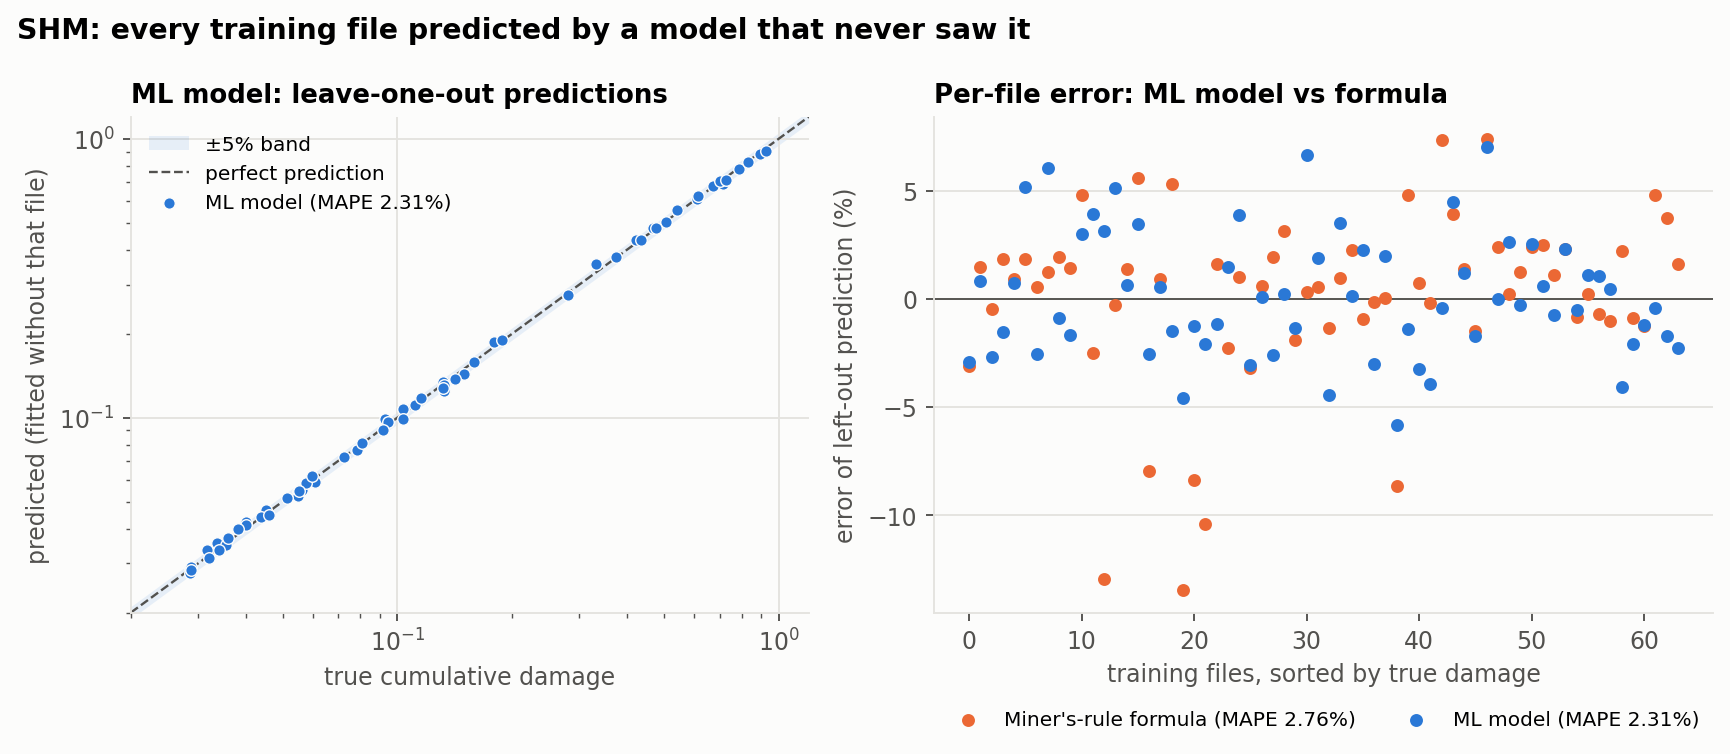
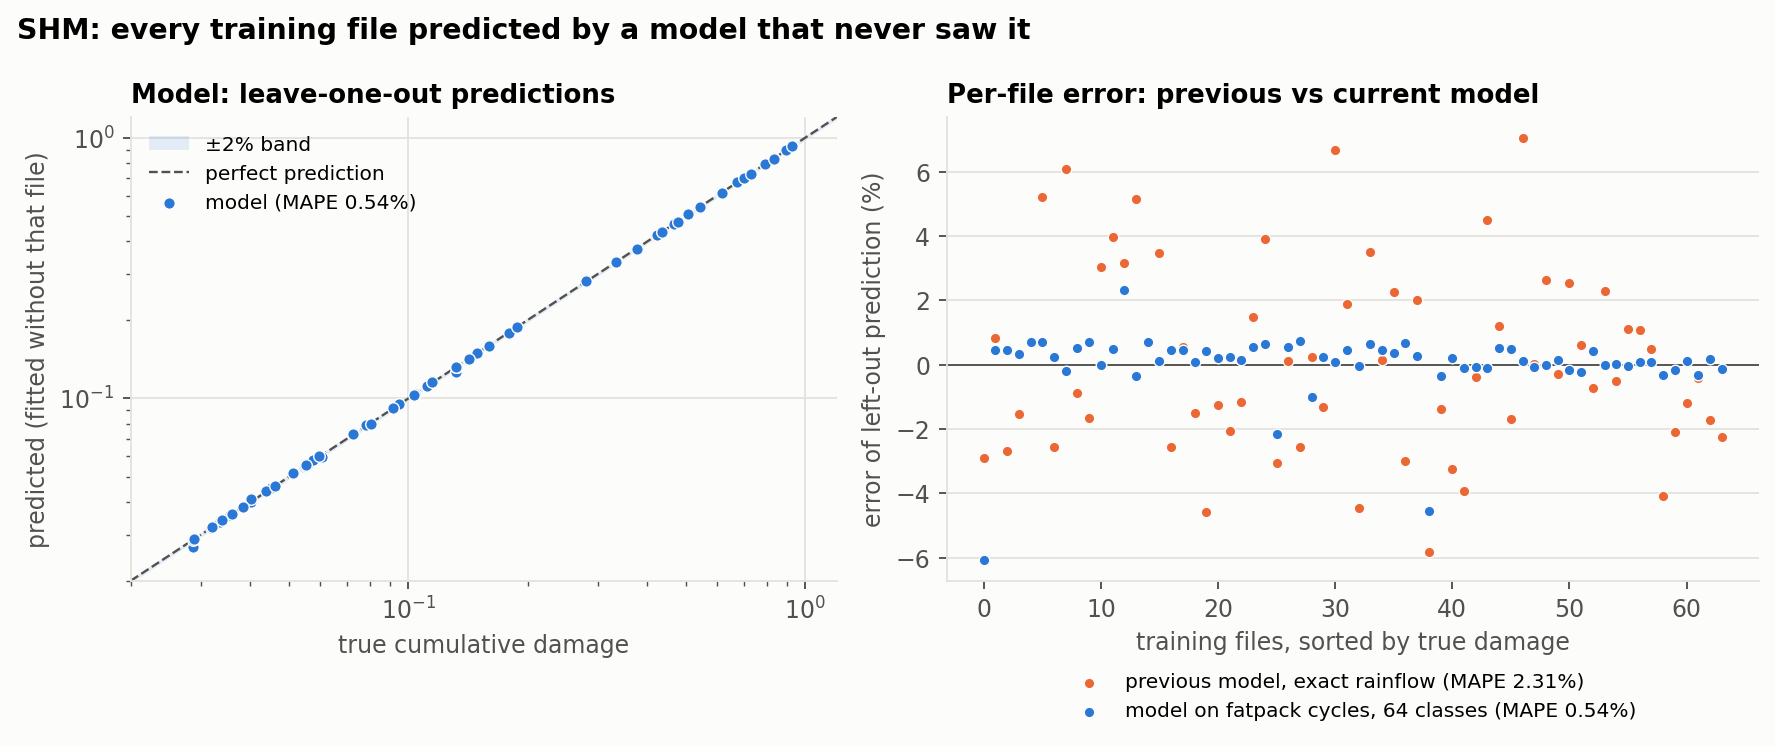
SHM: count rainflow cycles the way the labels were made (LOO MAPE 2.31% -> 0.54%)
The labels match fatpack's rainflow counting with its default 64 stress levels
and the residue closed as full cycles (fitted Miner formula: 0.79% vs 2.6% on
exact rainflow; 63 or 65 levels give 1.08%). The ridge model now uses 9 damage
sums over those cycles (signal statistics dropped): leave-one-out 0.54%,
repeated 5-fold 0.56% +- 0.03% vs 2.45% before, better on 20/20 seeds.

- ps3/shm.py, fit_shm.py: fatpack cycles, 9 features; model, params and
  training reference refitted.
- requirements.txt: fatpack replaces rainflow.
- submission/shm_predictions.csv regenerated (3% mean change, 11% max).
- README and SHM chart updated.

Claude-Session: https://claude.ai/code/session_01EtwQgoEAxMoT2HjhRF4N32

diff --git a/ps3/shm.py b/ps3/shm.py
@@ -1,16 +1,19 @@
 """SHM: cumulative fatigue damage from a dynamic stress time series.
 
-Model: ridge regression on log damage, trained on the 64 labelled files.
-Features (30), computed per file:
-  - 9 rainflow damage sums  log( sum_i n_i * amp_i^m )  for m = 3.0, 3.5 ... 7.0,
-    so the model learns the S-N weighting from the data instead of it being fixed;
-  - 21 signal statistics (mean, spread, shape, range, percentiles, step size,
-    turning-point rate, spectral band shares).
+The Info Kit says the reference labels were computed with rainflow counting and
+Miner's rule. How the rainflow counting is done matters: the labels are matched
+best by fatpack's rainflow counting with its default 64 load classes, the
+residue closed by repeating it (full cycles). The 2-parameter Miner formula
+D = sum(amp^m) / C fitted on those cycles misses the labels by 0.79% on average,
+against 2.6% on exact rainflow cycles with half-counted residue; 63 or 65 load
+classes give 1.08%, so 64 is a sharp optimum.
 
-Leave-one-out MAPE across all 64 files: 2.31% (score 0.977), against 2.76% for
-the fitted Miner's-rule formula D = sum(n * amp^m) / C (m = 5.03, C = 7.98e8)
-and 10-20% for machine learning on the signal statistics alone. The formula is
-still computed for every file and shown in `detail` as a cross-check.
+Model: ridge regression on log damage, trained on the 64 labelled files, on 9
+features log( sum_i amp_i^m ) for m = 3.0, 3.5 ... 7.0 over those cycles.
+Repeated 5-fold CV MAPE 0.56% (20 seeds; leave-one-out 0.54%, score about
+0.995), against 2.45% for the previous model (rainflow-package cycles plus 21
+signal statistics). The fitted Miner formula is still computed for every file
+and shown in `detail` as a cross-check.
 """
 import json
 import os
@@ -48,41 +51,30 @@ def load_series(path: str) -> np.ndarray:
     return s[np.isfinite(s)]
 
 
+LOAD_CLASSES = 64          # fatpack's default; reproduces the labels best (see above)
+
+
 def cycles(x: np.ndarray) -> np.ndarray:
-    """Rainflow cycle extraction -> array of (amplitude, count)."""
-    import rainflow
-    return np.array([[rng / 2.0, cnt] for rng, mean, cnt, i, j
-                     in rainflow.extract_cycles(x)])
+    """Rainflow cycles -> array of (amplitude, count), one row per distinct
+    amplitude. fatpack sorts the signal into 64 load classes and closes the
+    residue by repeating it, so every cycle is a full cycle."""
+    import fatpack
+    rng = fatpack.find_rainflow_ranges(x, k=LOAD_CLASSES)
+    amp, cnt = np.unique(rng[rng > 0] / 2.0, return_counts=True)
+    return np.stack([amp, cnt.astype(float)], 1)
 
 
 def damage_sum(c: np.ndarray, m: float) -> float:
     return float(np.sum(c[:, 0] ** m * c[:, 1]))
 
 
-def features(x: np.ndarray, c: np.ndarray) -> pd.Series:
-    """The 30 model inputs for one stress series and its rainflow cycles."""
-    from scipy import signal, stats
-    out = {f"rf_logdmg_m{m:.1f}": np.log(damage_sum(c, m)) for m in DAMAGE_EXPONENTS}
-    d = np.diff(x)
-    z = x - x.mean()
-    q = np.percentile(x, [1, 5, 25, 50, 75, 95, 99])
-    fr, psd = signal.welch(z, nperseg=4096)
-    edges = np.quantile(np.arange(len(fr)), [0, .02, .05, .1, .2, .4, 1]).astype(int)
-    out.update({
-        "st_log_std": np.log(x.std()), "st_mean": x.mean(), "st_skew": stats.skew(x),
-        "st_kurt": stats.kurtosis(x), "st_log_range": np.log(x.max() - x.min()),
-        **{f"st_p{p:02d}": v for p, v in zip((1, 5, 25, 50, 75, 95, 99), q)},
-        "st_log_absdiff": np.log(np.abs(d).mean()), "st_log_diffstd": np.log(d.std()),
-        "st_turning_rate": np.sum(np.diff(np.sign(d)) != 0) / len(x),
-        **{f"st_band{i}": np.log(psd[a:b].sum() / psd.sum() + 1e-12)
-           for i, (a, b) in enumerate(zip(edges[:-1], edges[1:]))},
-    })
-    return pd.Series(out)
+def features(c: np.ndarray) -> pd.Series:
+    """The 9 model inputs: log damage sums over the rainflow cycles."""
+    return pd.Series({f"rf_logdmg_m{m:.1f}": np.log(damage_sum(c, m)) for m in DAMAGE_EXPONENTS})
 
 
 def featurize(path: str) -> pd.Series:
-    x = load_series(path)
-    return features(x, cycles(x))
+    return features(cycles(load_series(path)))
 
 
 def make_model():
@@ -99,7 +91,7 @@ def predict(path: str) -> dict:
     x = load_series(path)
     c = cycles(x)
     M = _model()
-    X = features(x, c).reindex(M["features"]).to_frame().T
+    X = features(c).reindex(M["features"]).to_frame().T
     D = float(np.exp(M["model"].predict(X)[0]))
     D_formula = damage_sum(c, p["m"]) / p["C"]
 
@@ -120,7 +112,7 @@ def predict(path: str) -> dict:
     return {
         "prediction": round(D, 6),
         "detail": {
-            "model": "ridge regression on rainflow damage sums + signal statistics",
+            "model": "ridge regression on rainflow damage sums (fatpack, 64 load classes)",
             "miners_rule_estimate": round(float(D_formula), 6),
             "model_vs_formula_pct": round(100 * (D / D_formula - 1), 2),
             "samples": int(len(x)),

diff --git a/fit_shm.py b/fit_shm.py
@@ -1,10 +1,11 @@
 """Fits the SHM models on the training files:
   1. Miner's-rule constants m and C -> ps3/params_shm.json (used as a cross-check
      and for the explanation shown in the app);
-  2. the prediction model, ridge regression on rainflow damage sums + signal
-     statistics -> ps3/model_shm.joblib, together with the training reference
-     values used for the evidence in `detail`.
-Prints leave-one-out MAPE for both (64 files: 2.76% formula, 2.31% model)."""
+  2. the prediction model, ridge regression on rainflow damage sums
+     -> ps3/model_shm.joblib, together with the training reference values used
+     for the evidence in `detail`.
+Both use fatpack rainflow cycles with 64 load classes (see ps3/shm.py).
+Prints the formula's in-sample MAPE and the model's leave-one-out MAPE."""
 import json, sys, os
 import numpy as np, pandas as pd, joblib
 sys.path.insert(0, os.path.dirname(os.path.abspath(__file__)))
@@ -29,7 +30,7 @@ def main(train_dir, labels_csv, out=None):
     print(f"formula: m={p['m']}  C={p['C']:.4g}  in-sample MAPE={p['in_sample_mape']:.2%}  -> {out}")
 
     # 2. ridge regression, validated leave-one-out
-    F = pd.DataFrame([shm.features(x, c) for x, c in zip(series, cyc)])
+    F = pd.DataFrame([shm.features(c) for c in cyc])
     X = F[sorted(F.columns)]
     ly = np.log(y)
     pred = np.empty(len(y))

diff --git a/README.md b/README.md
@@ -12,11 +12,11 @@ explanation that the app can show on screen.
 | Subsystem | Task | How it works | CV score | Checked with |
 |---|---|---|---|---|
 | **Door** | Find each open/close cycle, label it Normal or Abnormal resistance | Time-gap segmentation + motor current relative to the file's own baseline | **0.996** (110/110 on the full stream) | 5-fold × 5 seeds, 110 cycles |
-| **SHM** | Estimate cumulative fatigue damage | Ridge regression on rainflow damage sums + signal statistics | **0.977** (MAPE 2.31%) | leave-one-out, 64 files |
+| **SHM** | Estimate cumulative fatigue damage | Ridge regression on rainflow damage sums, counted the way the labels were made | **0.995** (MAPE 0.54%) | leave-one-out, 64 files |
 | **ACV** | Rank the 8 cars by refrigerant-leak likelihood | Logistic regression on 4 cabin-temperature features, each relative to the other cars | **0.979** (true car 1st in 5 of 6 cases, 2nd in 1) | leave-one-case-out, 6 cases |
 | **Rail** | Normal / Side I / Side II corrugation | 73 vibration features + soft-vote ensemble | **0.84 ± 0.02** macro F1 (nested: 0.83) | 5-fold × 20 seeds, 272 files |
 
-If these estimates hold, the Overall Score is roughly **0.93–0.95**. ACV (a single
+If these estimates hold, the Overall Score is roughly **0.94–0.96**. ACV (a single
 test file) and Rail (only a handful of Side I files in the test set) are the two
 that can move it.
 
@@ -121,57 +121,65 @@ cycles are abnormal; beyond that the 40th percentile lands among the abnormal cy
 Train has 27% abnormal cycles and the test predictions 17–25%. On the test file the
 ratios closest to the threshold are 1.072 and 1.204, so no cycle is borderline.
 
-### SHM: machine learning on rainflow physics
+### SHM: machine learning on the organisers' rainflow counting
 
 The Info Kit asks for a regression model that predicts one damage value per file. It
 says the labels were made with rainflow counting and Miner's rule, but that teams
-don't have to use that method. The model uses that physics as its inputs and learns
-the rest from the 64 labelled files:
+don't have to use that method. How the rainflow counting is done turns out to matter
+more than the model:
 
-1. **Rainflow counting** of the stress series. Amplitude = range ÷ 2, and half cycles
-   count 0.5.
-2. **Features (30):**
-   - 9 rainflow damage sums, log(Σ count × amplitude^m) for m = 3.0, 3.5, …, 7.0, so
-     the model learns how much each amplitude level matters instead of fixing it;
-   - 21 signal statistics: mean, spread, skew, kurtosis, range, 7 percentiles, 2
-     step-size measures, turning-point rate and 6 spectral band shares.
+- Exact rainflow counting (the `rainflow` package, leftover half cycles counted as
+  0.5) with a fitted Miner's rule misses the labels by 2.6% on average.
+- The `fatpack` library's rainflow counting with its default settings misses them by
+  only 0.79%. It first sorts the signal into 64 stress levels, and it closes the
+  leftover half cycles by repeating them, so every cycle counts as a full cycle.
+- 64 levels is a sharp optimum: 63 or 65 levels give 1.08%, 128 gives 1.13%. So the
+  labels were almost certainly made this way, and the model uses the same counting.
+
+1. **Rainflow counting** with `fatpack.find_rainflow_ranges(x, k=64)`. Amplitude =
+   range ÷ 2.
+2. **Features (9):** log(Σ amplitude^m) over all cycles, for m = 3.0, 3.5, …, 7.0, so
+   the model learns how much each amplitude level matters instead of fixing it.
 3. **Model:** ridge regression on log damage, with standardised features. The
    regularisation strength is chosen by cross-validation inside each training fold.
-4. **Cross-check:** Miner's rule itself, `damage = Σ count × amplitude^m / C` with
-   fitted m = 5.03 and C = 7.98 × 10⁸ (`params_shm.json`), is computed for every file
-   and shown in `detail` next to the model's answer, along with which amplitude bands
-   drive the damage.
+4. **Cross-check:** Miner's rule itself, `damage = Σ amplitude^m / C` with fitted
+   m = 4.99 and C = 7.45 × 10⁸ (`params_shm.json`), is computed for every file and
+   shown in `detail` next to the model's answer, along with which amplitude bands
+   drive the damage. On the 16 test files the two agree within 1.1%.
 
 ![SHM: every training file predicted by a model that never saw it](charts/shm_loo_pred_vs_true.png)
 
 | SHM model | Leave-one-out MAPE | Score |
 |---|---|---|
-| ML on signal statistics only: gradient boosting / random forest | 19.0% / 20.4% | 0.81 / 0.80 |
+| **Ridge regression on fatpack damage sums (used)** | **0.54%** | **0.995** |
+| Ridge regression on fatpack damage sums + 21 signal statistics | 0.96% | 0.990 |
+| Miner's-rule formula on fatpack cycles, m and C fitted | 0.81% | 0.992 |
+| Previous model: ridge regression on exact-rainflow damage sums + 21 signal statistics | 2.31% | 0.977 |
+| Miner's-rule formula on exact rainflow cycles, m and C fitted | 2.76% | 0.972 |
+| ML on exact-rainflow damage features: gradient boosting / random forest | 8.9% / 5.0% | 0.91 / 0.95 |
 | ML on signal statistics only: ridge regression | 10.1% | 0.90 |
-| ML on rainflow damage features: gradient boosting / random forest | 8.9% / 5.0% | 0.91 / 0.95 |
-| ML on rainflow damage features: ridge regression | 2.56% | 0.974 |
-| **ML on both: ridge regression (used)** | **2.31%** | **0.977** |
-| Miner's-rule formula, m and C fitted | 2.76% | 0.972 |
+| ML on signal statistics only: gradient boosting / random forest | 19.0% / 20.4% | 0.81 / 0.80 |
 
-The model was picked from these ML configurations, so it was confirmed on 20 repeated
-8-fold splits: 2.37% against 2.72% for the formula, better on all 20, and the worst
-single-file error drops from 13.4% to 6.9%. Tree models do poorly here because 64
-files are too few for them to learn a smooth power law, while ridge regression on log
-damage sums can represent one almost exactly. Signal statistics alone are not enough:
-the standard deviation only reaches R² 0.56 against the labels, while the rainflow
-damage sum reaches 0.9989.
+Confirmed on 20 repeated 5-fold splits: 0.56% ± 0.03% against 2.45% ± 0.19% for the
+previous model, better on all 20. The typical file is now within 0.3% and 59 of the
+64 within 1%; the largest errors are train13 (6.1%) and train41 (4.6%), which no
+variant explains. The signal
+statistics that helped the previous model now only add noise, so they are dropped.
+On the test files the new predictions differ from the previous ones by 3% on average
+(11% for test03).
 
-Before moving to the model, these formula variants were tested; none beat the
-formula's 2.76%:
+Other variants tested; none came close to the fatpack counting:
 
 | Variant | Result |
 |---|---|
-| Range binning (15 `nbins`, 11 `binsize` settings, bin centres, rounding) | 2.56–2.61% in-sample, no real gain |
-| Half cycles counted as full, or dropped | worse |
-| Two-slope S-N curve (knee and both slopes fitted) | 2.81% leave-one-out |
-| Goodman / Gerber mean-stress correction | 3.20% / 2.62% in-sample |
+| Range binning (15 `nbins`, 11 `binsize` settings, bin centres, rounding) | 2.56–2.61% in-sample |
+| Half cycles counted as full, or dropped | 5.2% / 15.5% |
+| Small cycles ignored (amplitude below 0.5–8) | no gain |
+| Two-slope or three-slope S-N curve (fatpack `BiLinear`/`TriLinear`, knee fitted) | no gain; best is a single slope m ≈ 5 |
+| Goodman / Gerber / SWT mean-stress correction | 3.20% / 2.62% / 45.6% in-sample |
+| Other fatpack versions (0.5.5–0.7.8) | identical results |
 
-The model runs in about 0.5 s per file (581,120 samples), so it also meets the Info
+The model runs in about 0.36 s per file (581,120 samples), so it also meets the Info
 Kit's call for automated, efficient assessment.
 
 ### ACV: trained ranker on cabin temperature relative to the other cars
@@ -319,7 +327,7 @@ On the test data: Door is high (worst cycle +37.9%). ACV is medium: the model gi
 car 01 88% and physics agrees, but car 01's excess (0.099 °C) is weaker than any
 training leak.
 Rail Test9 is medium (predicted Normal, 35% corrugation; its Side II loudest axle box is
-above 98% of speed-matched Normal files). SHM test02 is medium (D = 0.81, 19% capacity
+above 98% of speed-matched Normal files). SHM test02 is medium (D = 0.82, 18% capacity
 left).
 
 ## Validation
@@ -366,7 +374,7 @@ this, so it is stated here rather than ignored.
 
 | Model | Score on its own training data | Score on held-out data | Verdict |
 |---|---|---|---|
-| SHM (ridge regression) | 1.57% error | 2.31% error | small gap, no overfitting |
+| SHM (ridge regression) | 0.45% error | 0.54% error | small gap, no overfitting |
 | Door (1 threshold) | 100% | 99.6% | no overfitting |
 | Rail (ensemble) | 0.99 | **0.84** | fits the training data almost perfectly; 0.84 is the honest figure |
 
@@ -391,8 +399,9 @@ with about 11 Side I files per fold.
   are available at prediction time.
 - Selection effects are stated where they exist: ACV variants were compared on its
   6 cases, the Rail ensemble was picked from ~15 configurations
-  (the nested check above measures how much that matters), and the SHM model from 7
-  (confirmed on 20 repeated splits).
+  (the nested check above measures how much that matters), and the SHM counting
+  method from a handful of variants (64 levels is fatpack's default and a sharp
+  optimum; the model was confirmed on 20 repeated splits).
 - Rail has a speed confound: in training, faults only occur above 35 km/h. A slow
   corrugated section in real service would likely be called Normal.
 
@@ -473,7 +482,7 @@ Measured on one CPU core:
 | Door | 0.03 s for the whole test stream | — |
 | ACV | 0.3–0.8 s per file (12 s for the 22,000-row case 04), about 9× faster than without `python-calamine` | reading the Excel file; the features and ranking take about 30 ms |
 | Rail | 0.28 s per 1-second recording | reading the CSV 150 ms, frequency analysis and features 121 ms, the three models 7 ms |
-| SHM | 0.6 s per file | rainflow counting and features; the model itself is instant |
+| SHM | 0.36 s per file | reading the CSV and rainflow counting; the model itself is instant |
 
 Rail processes one second of recording in about a quarter of a second, so real-time use
 is not limited by the models. In a live system the data would arrive straight from the
@@ -511,9 +520,9 @@ python fit_rail.py <Rail_Corrugation/Train dir> <Rail_Corrugation/Train_Labels.c
 python fit_acv.py  <ACV dir, holding Train/ and Train_Labels.csv>
 ```
 
-`fit_shm.py` fits the ridge model (`ps3/model_shm.joblib`) and the Miner's-rule
-constants used as a cross-check (`ps3/params_shm.json`), and prints the leave-one-out
-MAPE for both. `fit_rail.py` takes a few minutes for 272 files and caches features to
+`fit_shm.py` takes about 20 s. It fits the ridge model (`ps3/model_shm.joblib`) and the
+Miner's-rule constants used as a cross-check (`ps3/params_shm.json`), and prints the
+formula's in-sample MAPE and the model's leave-one-out MAPE. `fit_rail.py` takes a few minutes for 272 files and caches features to
 `rail_feats_v2.pkl`. It prints the cross-validated macro F1 and saves
 `ps3/model_rail.joblib`. `fit_acv.py` takes about 15 s with `python-calamine`, prints leave-one-case-out rank
 decay for the ranker and for the physics score, and saves `ps3/model_acv.joblib`. Each
